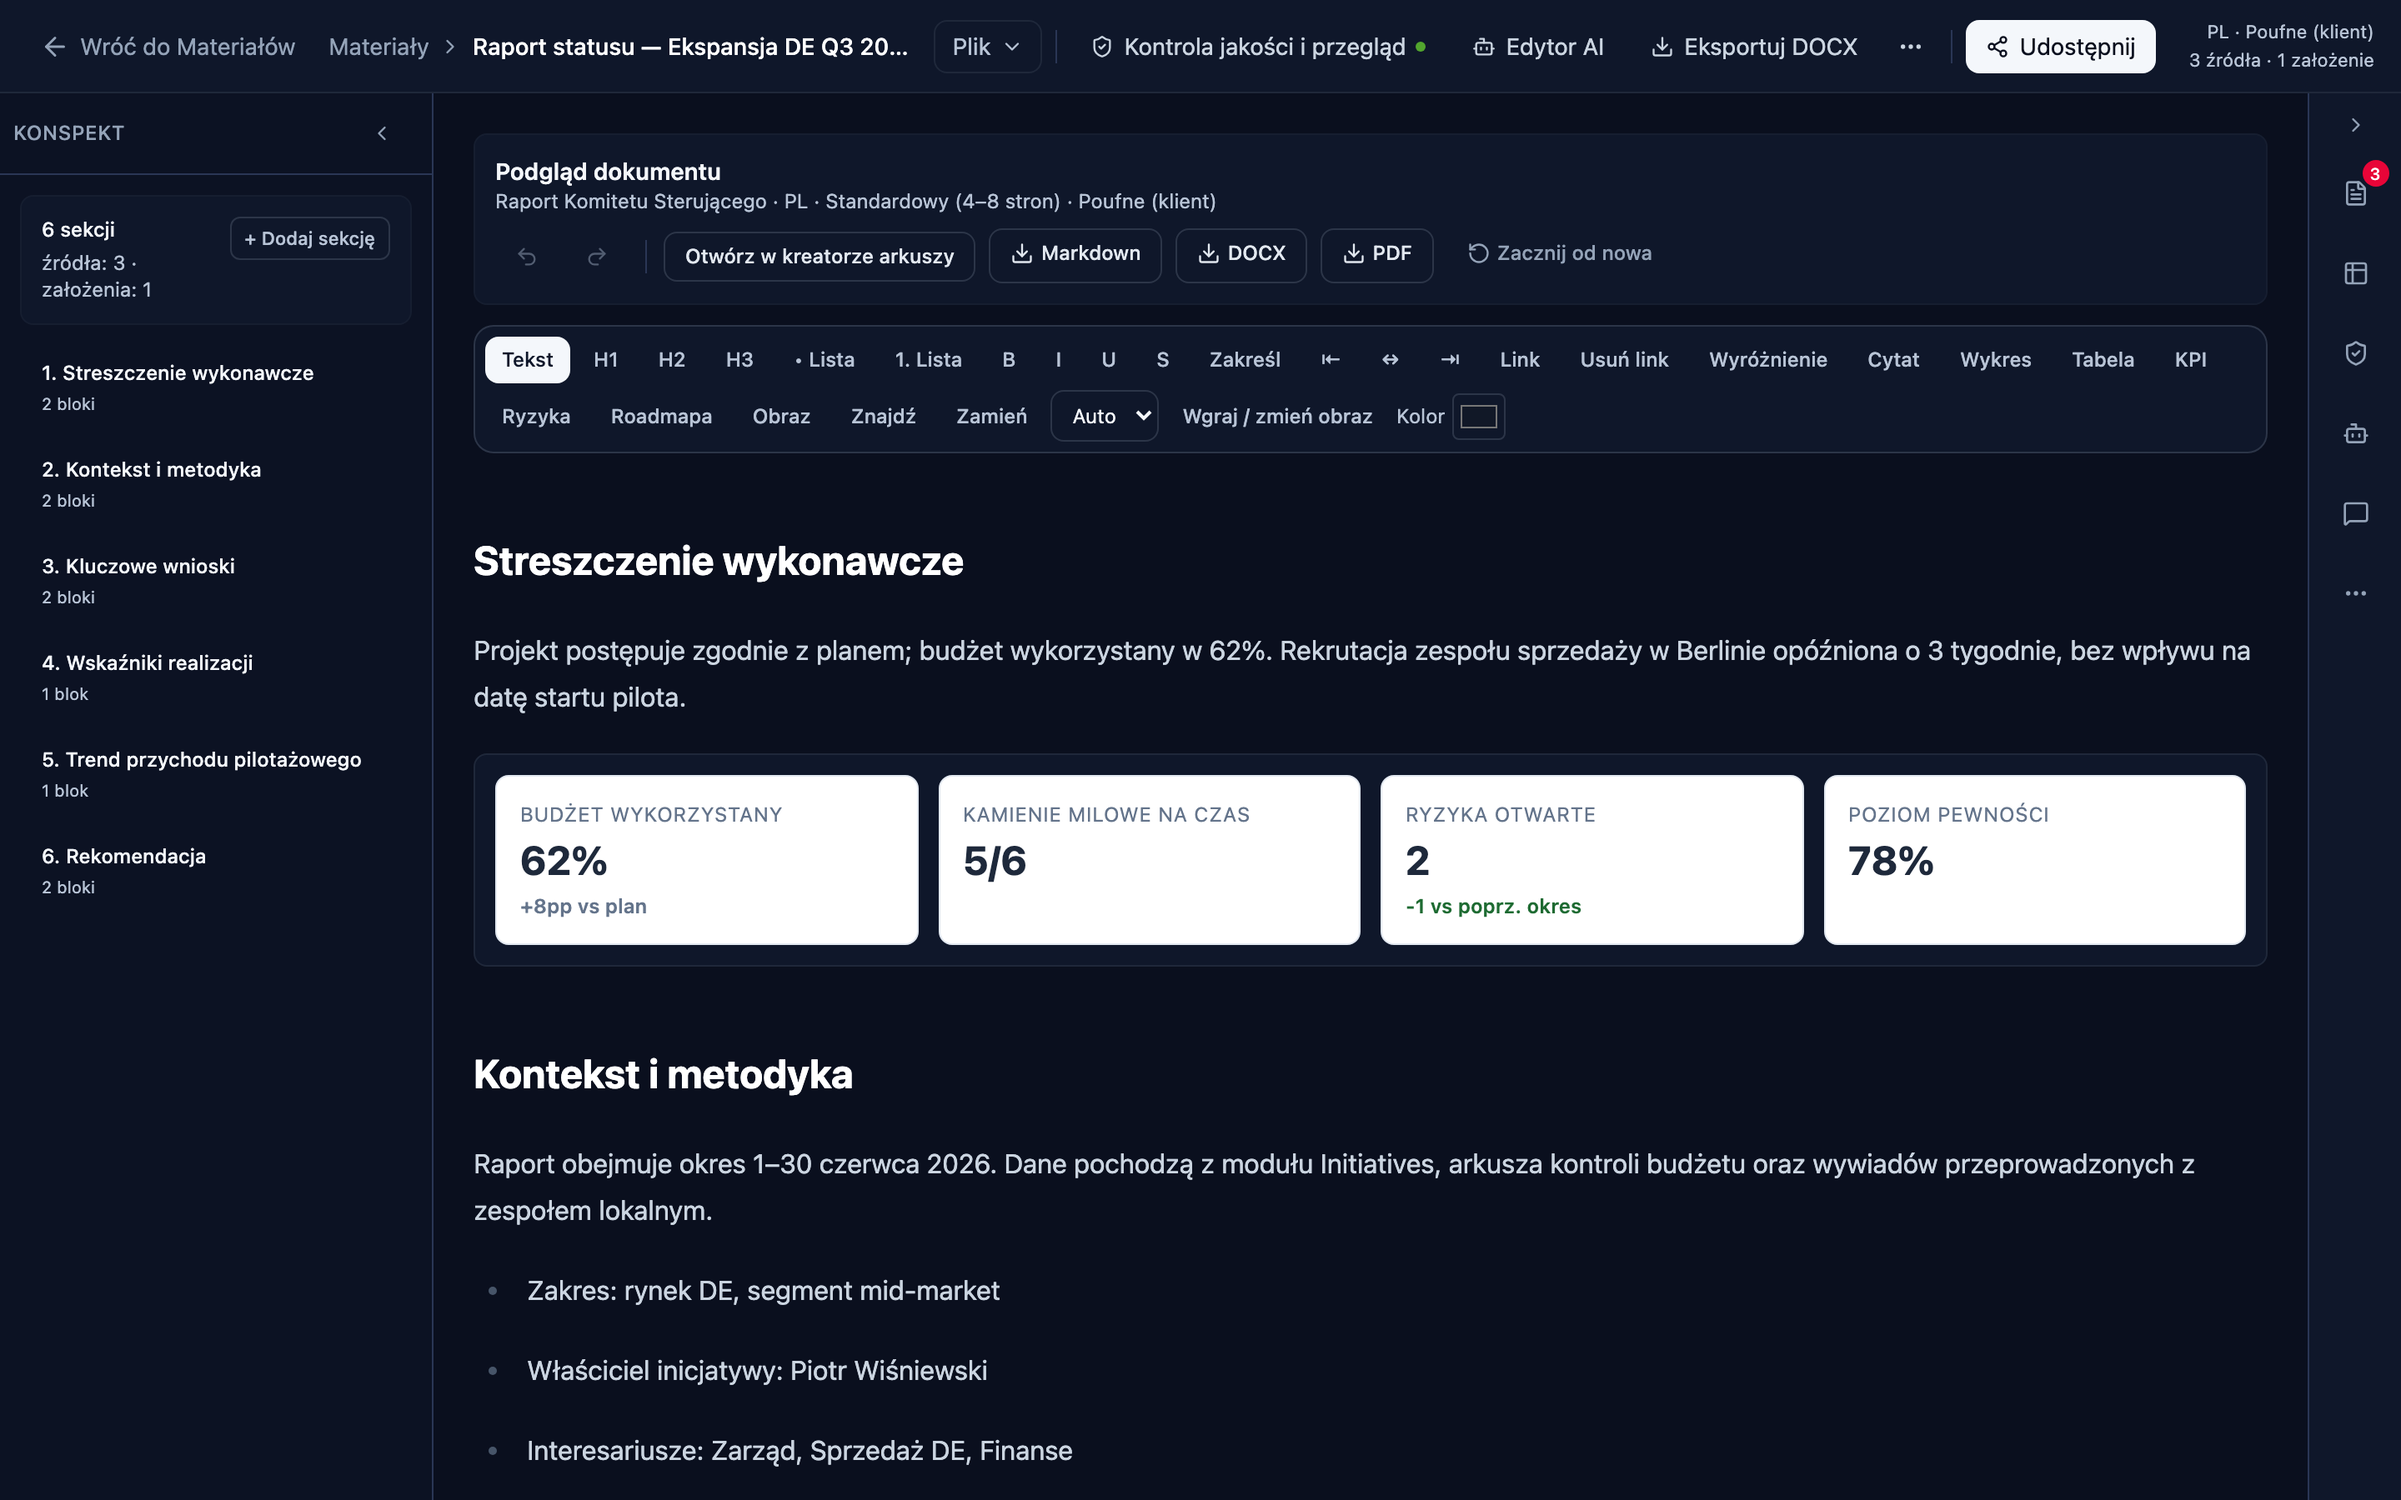
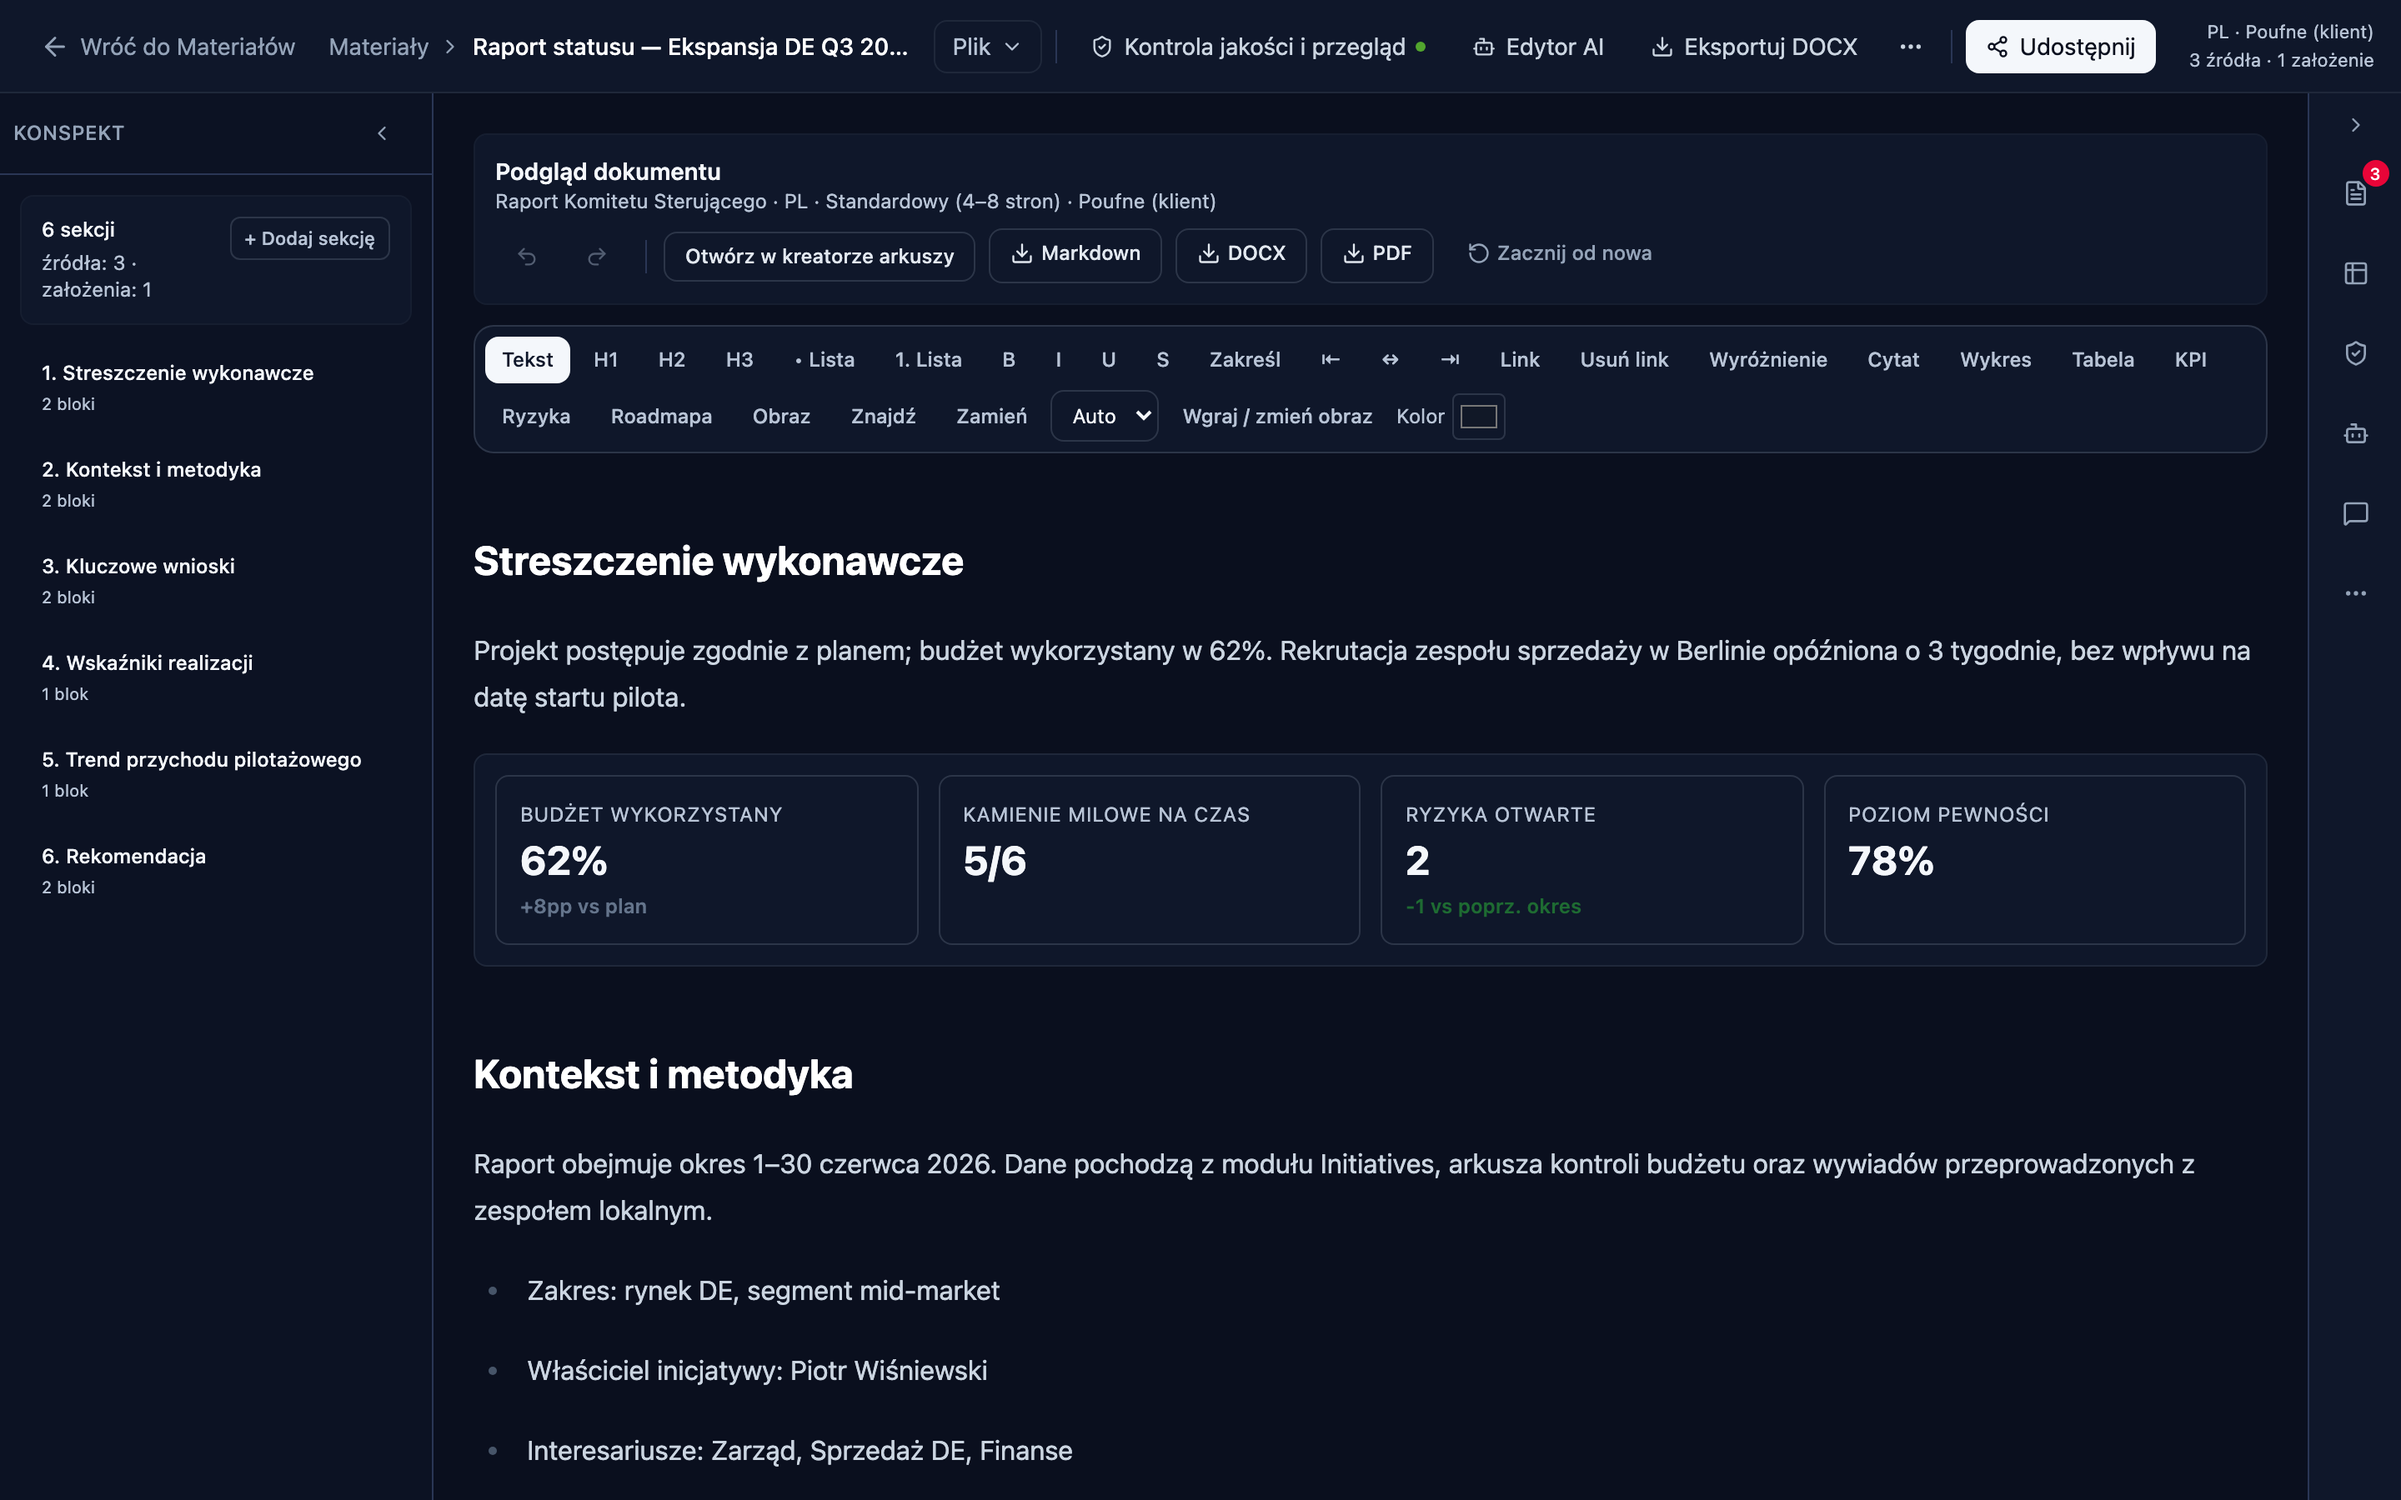
grafika: kafle KPI i tabela dokumentu przelaczaja sie na motyw — malowaly wlasne biale tlo w stylach inline; komentarz w blizniaczym DocChartBlock wymienial oba pliki jako nienaprawione

Changed region(s): [[0.1875, 0.4978, 0.9375, 0.6533]]

diff --git a/src/components/DocumentStudio/blocks/DocTableBlock.tsx b/src/components/DocumentStudio/blocks/DocTableBlock.tsx
@@ -20,7 +20,7 @@ export interface DocTableBlockProps {
   content: NarrowedTableContent;
 }
 
-const BORDER = '1px solid #e2e8f0';
+const BORDER = '1px solid var(--c-border)';
 const CELL_PADDING = '8px 12px';
 
 /** Risk level → background/foreground. Keeps the textual label (never replaces). */
@@ -62,7 +62,7 @@ export const DocTableBlock: React.FC<DocTableBlockProps> = ({ content }) => {
     return (
       <div
         className="doc-table-block__empty"
-        style={{ padding: '16px 0', color: '#64748b', fontSize: 13 }}
+        style={{ padding: '16px 0', color: 'var(--c-text-secondary)', fontSize: 13 }}
       >
         {t('documentStudio.blocks.noTableData', 'No table data available')}
       </div>
@@ -89,8 +89,8 @@ export const DocTableBlock: React.FC<DocTableBlockProps> = ({ content }) => {
                   style={{
                     textAlign: 'left',
                     fontWeight: 700,
-                    background: '#f1f5f9',
-                    color: '#1e293b',
+                    background: 'var(--c-surface-hover)',
+                    color: 'var(--c-text)',
                     border: BORDER,
                     padding: CELL_PADDING,
                   }}
@@ -103,7 +103,7 @@ export const DocTableBlock: React.FC<DocTableBlockProps> = ({ content }) => {
         )}
         <tbody>
           {rows.map((row, rIdx) => (
-            <tr key={rIdx} style={{ background: rIdx % 2 === 1 ? '#f8fafc' : '#ffffff' }}>
+            <tr key={rIdx} style={{ background: rIdx % 2 === 1 ? 'var(--c-surface-raised)' : 'var(--c-surface)' }}>
               {(columns.length > 0 ? columns : row).map((_, cIdx) => {
                 const value = row[cIdx] ?? '';
                 const risk = riskColIndexes.has(cIdx) ? riskCellStyle(value) : undefined;
@@ -113,7 +113,7 @@ export const DocTableBlock: React.FC<DocTableBlockProps> = ({ content }) => {
                     style={{
                       border: BORDER,
                       padding: CELL_PADDING,
-                      color: '#334155',
+                      color: 'var(--c-text)',
                       ...risk,
                     }}
                   >
@@ -128,7 +128,7 @@ export const DocTableBlock: React.FC<DocTableBlockProps> = ({ content }) => {
       {caption && (
         <figcaption
           className="doc-table-block__caption"
-          style={{ fontSize: 12, color: '#64748b', marginTop: 6 }}
+          style={{ fontSize: 12, color: 'var(--c-text-secondary)', marginTop: 6 }}
         >
           {caption}
         </figcaption>

diff --git a/src/components/DocumentStudio/blocks/DocKpiStrip.tsx b/src/components/DocumentStudio/blocks/DocKpiStrip.tsx
@@ -38,7 +38,7 @@ export const DocKpiStrip: React.FC<DocKpiStripProps> = ({ content }) => {
     return (
       <div
         className="doc-kpi-strip__empty"
-        style={{ padding: '16px 0', color: '#64748b', fontSize: 13 }}
+        style={{ padding: '16px 0', color: 'var(--c-text-secondary)', fontSize: 13 }}
       >
         {t('documentStudio.blocks.noKpiData', 'No KPIs available')}
       </div>
@@ -60,17 +60,17 @@ export const DocKpiStrip: React.FC<DocKpiStripProps> = ({ content }) => {
             key={idx}
             className="doc-kpi-strip__card"
             style={{
-              border: '1px solid #e2e8f0',
+              border: '1px solid var(--c-border)',
               borderRadius: 8,
               padding: '12px 14px',
-              background: '#ffffff',
+              background: 'var(--c-surface)',
             }}
           >
             <div
               className="doc-kpi-strip__label"
               style={{
                 fontSize: 12,
-                color: '#64748b',
+                color: 'var(--c-text-secondary)',
                 textTransform: 'uppercase',
                 letterSpacing: 0.4,
                 marginBottom: 4,
@@ -80,7 +80,7 @@ export const DocKpiStrip: React.FC<DocKpiStripProps> = ({ content }) => {
             </div>
             <div
               className="doc-kpi-strip__value"
-              style={{ fontSize: 24, fontWeight: 700, color: '#1e293b', lineHeight: 1.1 }}
+              style={{ fontSize: 24, fontWeight: 700, color: 'var(--c-text)', lineHeight: 1.1 }}
             >
               {item.value || '—'}
             </div>
@@ -103,7 +103,7 @@ export const DocKpiStrip: React.FC<DocKpiStripProps> = ({ content }) => {
       {narrowed.caption && (
         <figcaption
           className="doc-kpi-strip__caption"
-          style={{ fontSize: 12, color: '#64748b', marginTop: 6 }}
+          style={{ fontSize: 12, color: 'var(--c-text-secondary)', marginTop: 6 }}
         >
           {narrowed.caption}
         </figcaption>
